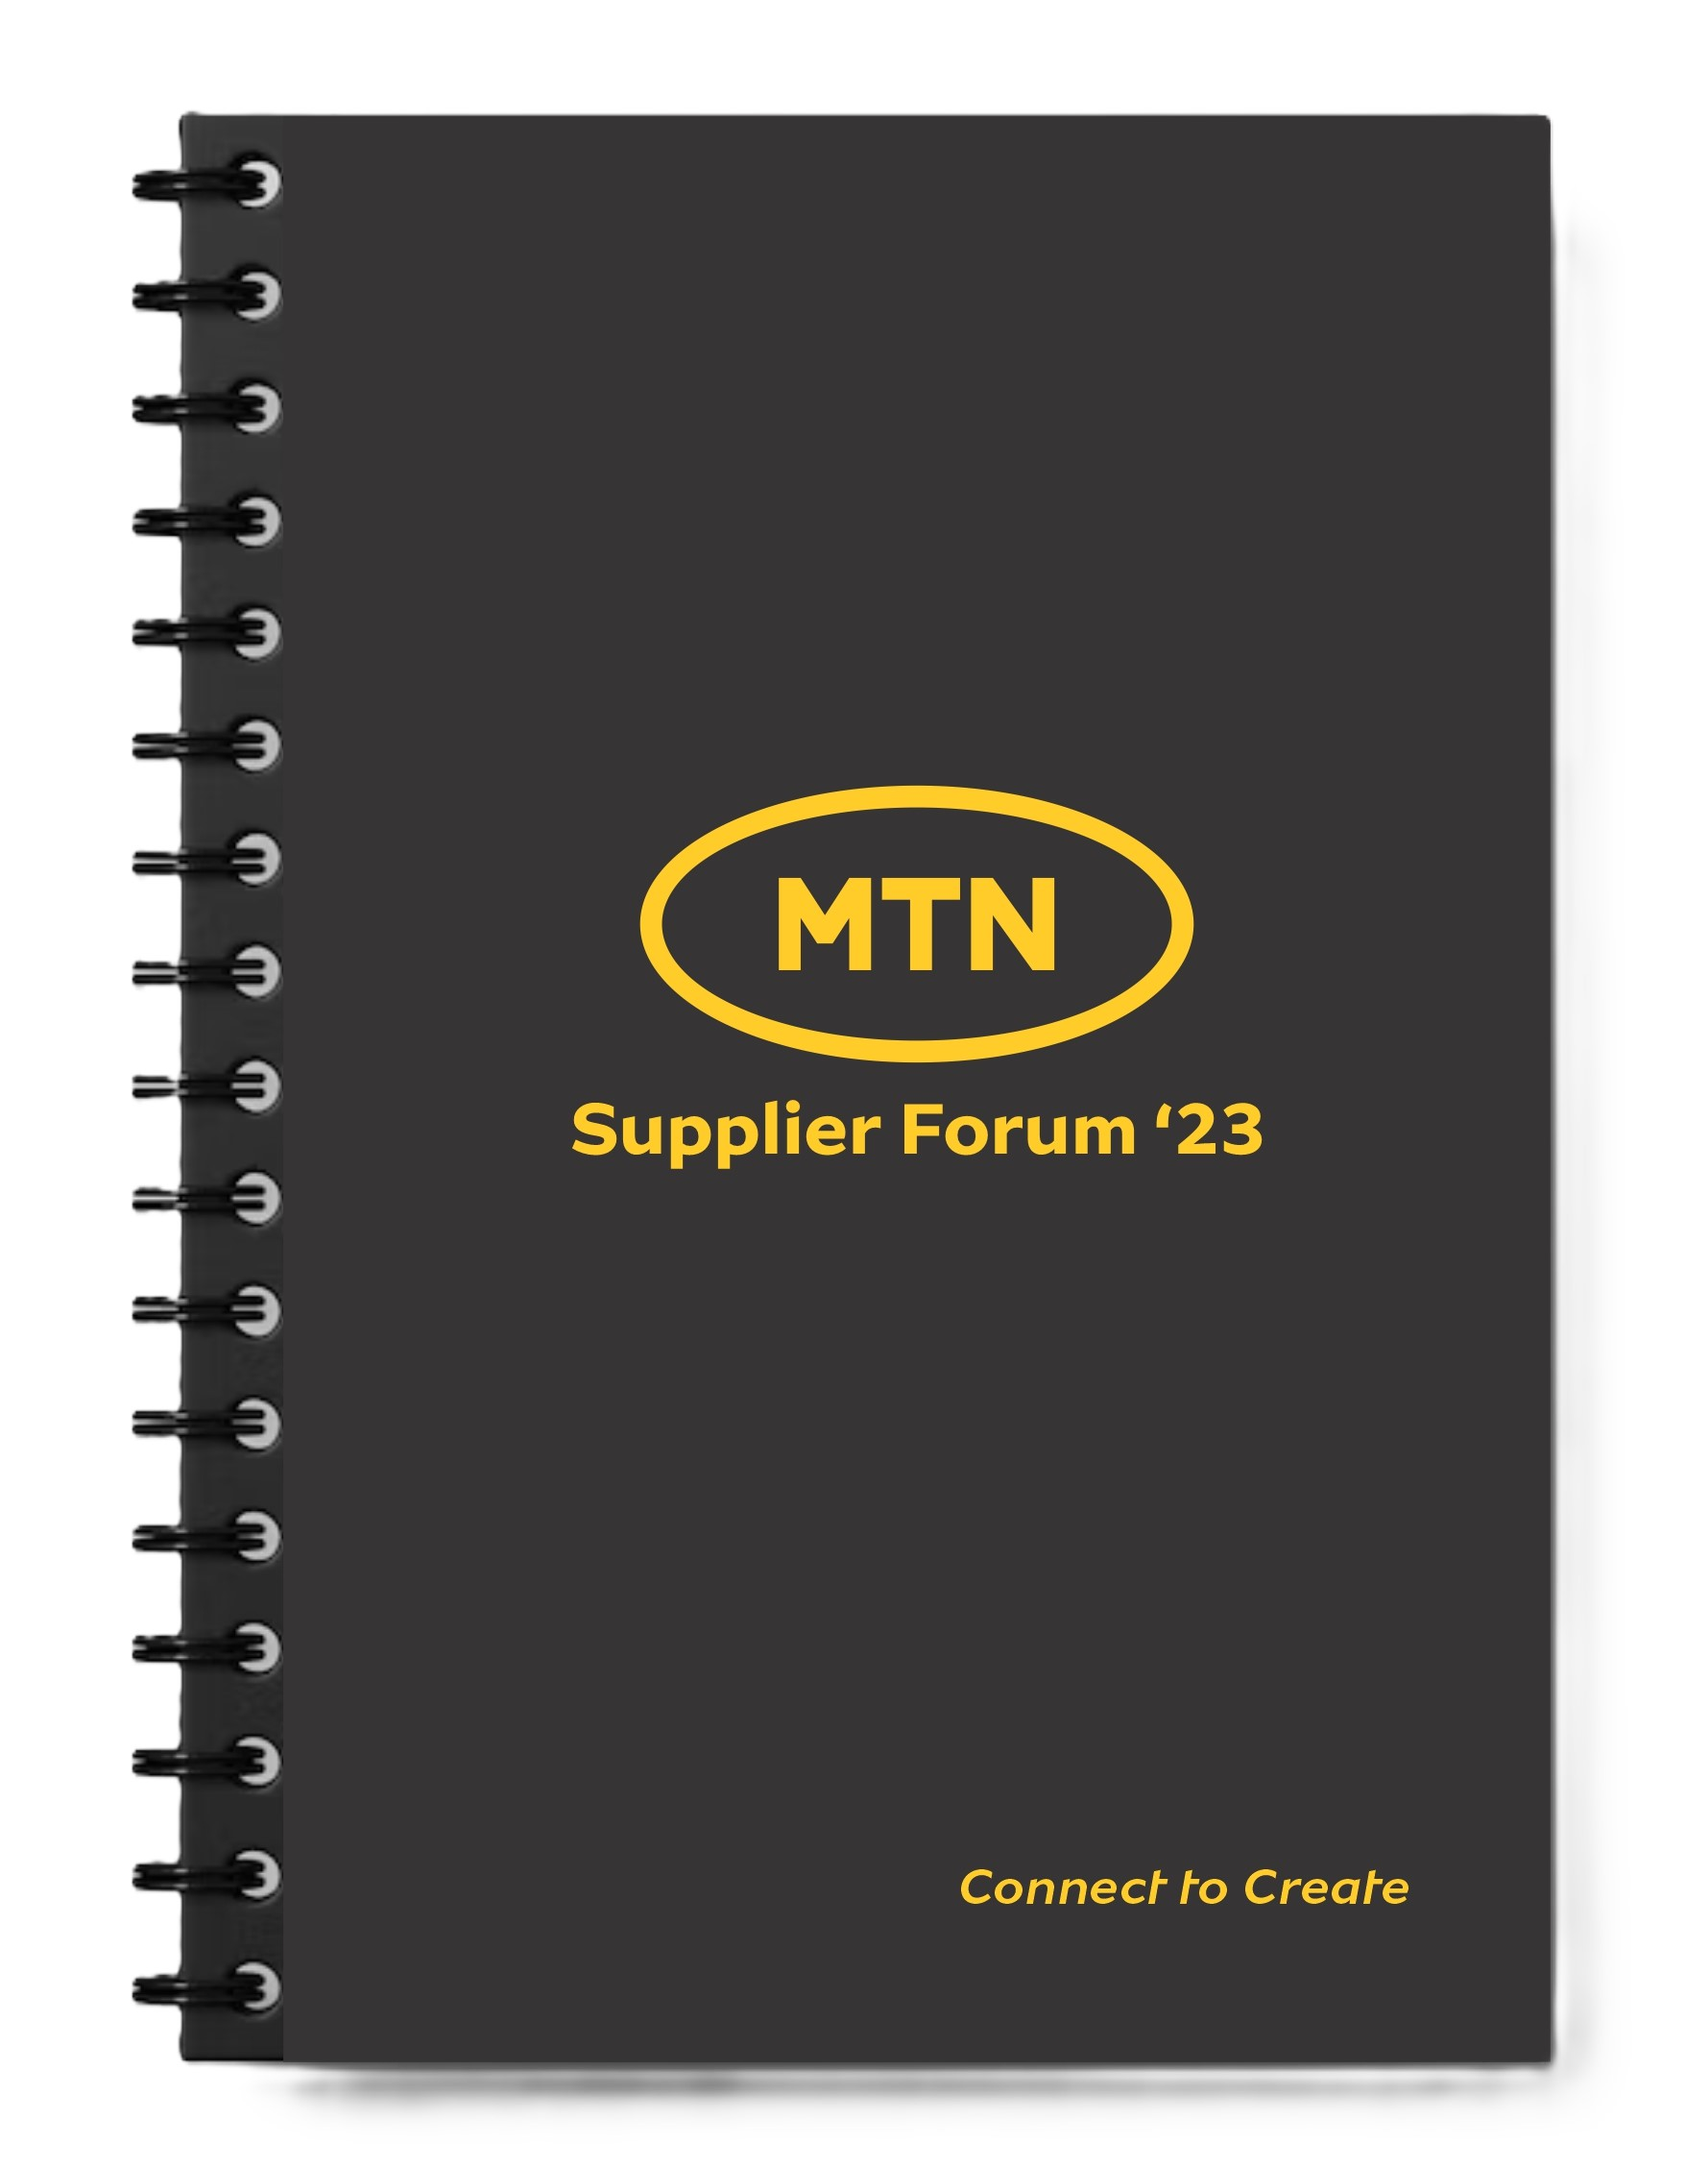
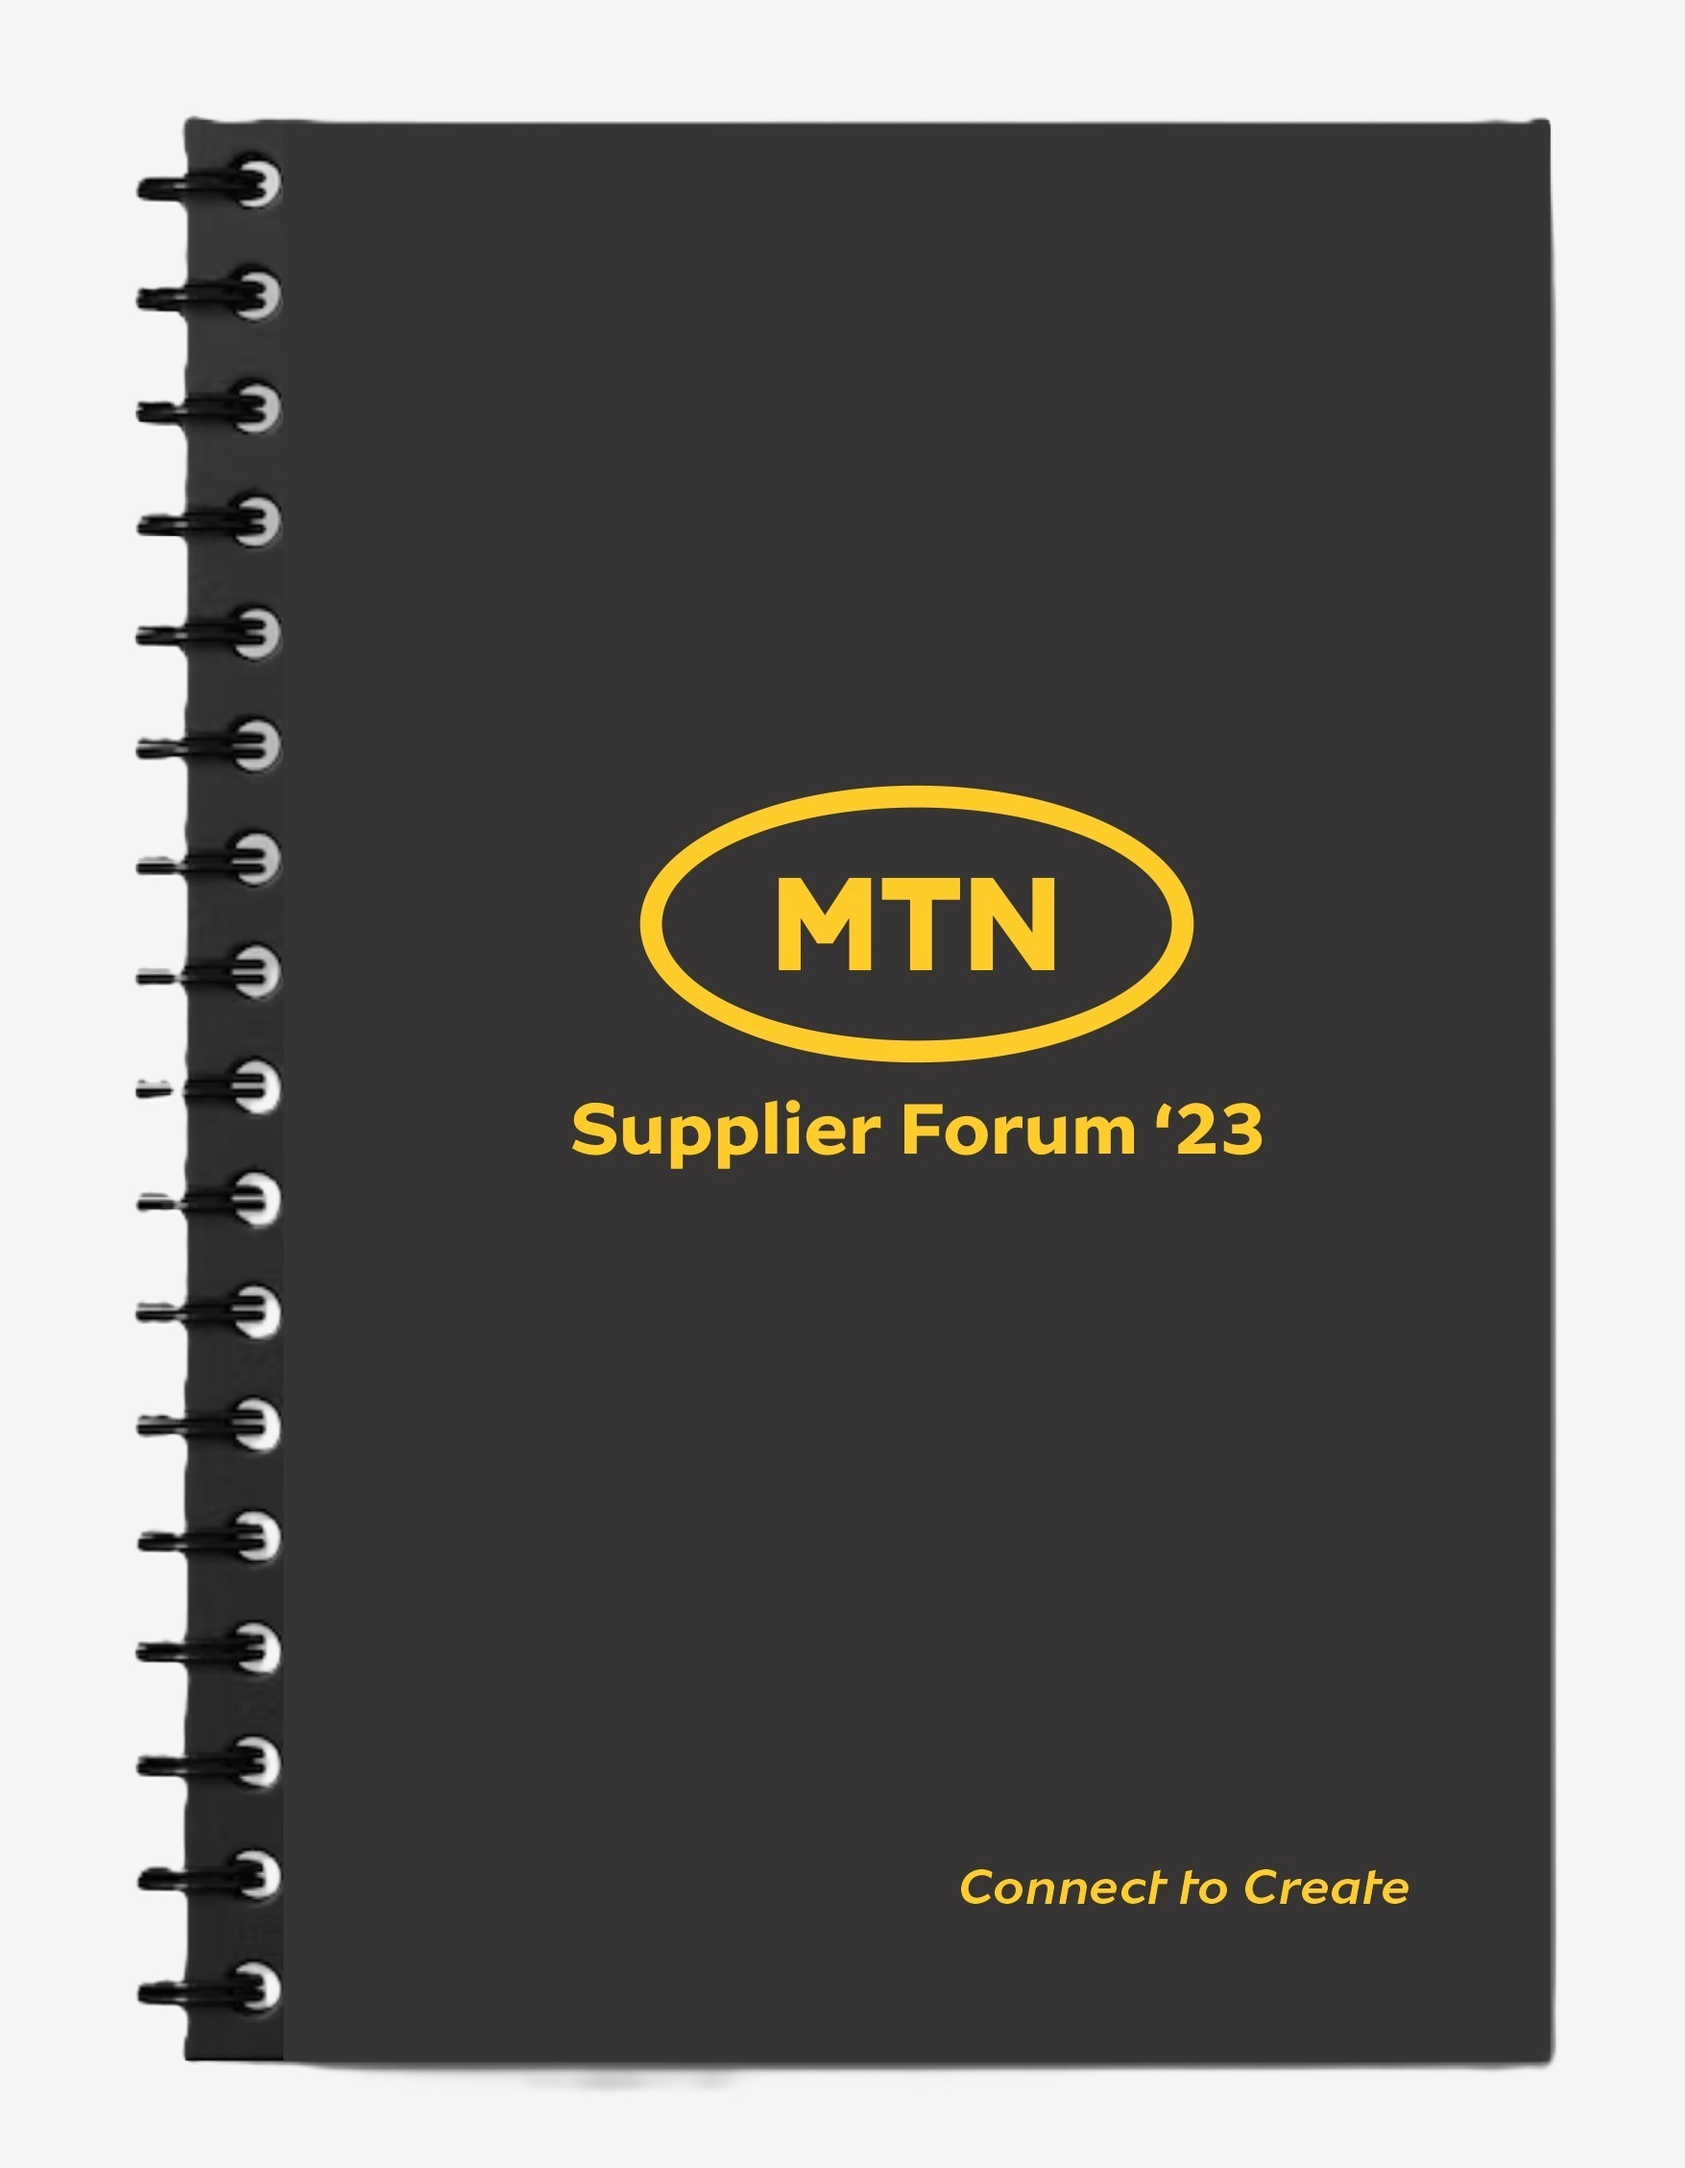
removed some portfolio img backgroung

diff --git a/styles/pages/index.css b/styles/pages/index.css
@@ -58,7 +58,6 @@
   }
 }
 
-
 /* ----- HERO ----- */
 .home--hero--sec {
   /* background-image: url(../background-images/hands-reaching-pot.png); */
@@ -96,41 +95,44 @@
   color: transparent;
 }
 @keyframes arrow {
-  0%, 100% {
+  0% {
     transform: translateY(-10px);
   }
   20% {
-    transform: translateY(-8px);
-  }
-  40% {
     transform: translateY(-6px);
   }
+  40% {
+    transform: translateY(-2px);
+  }
   60% {
-    transform: translateY(-4px);
+    transform: translateY(2px);
   }
   80% {
-    transform: translateY(-2px);
+    transform: translateY(6px);
+  }
+  100% {
+    transform: translateY(10px);
   }
 }
 .home--hero--btn {
+  display: flex;
+  justify-content: center;
+  align-items: center;
   margin: 40px 0 96px;
-  padding: 10px 40px 10px 50px;
+  padding: 10px 25px;
   background-color: var(--main-color);
   font-size: 16px;
   color: white;
   border: none;
   cursor: pointer;
-  box-shadow: -5px -5px 0px rgba(112,204, 133, 0);
+  box-shadow: -5px -5px 0px rgba(112, 204, 133, 0);
   position: relative;
 }
-.home--hero--btn::before {
-  content: '⬇';
-  position: absolute;
-  font-size: 20px;
-  left: 30px;
+.home--hero--btn .arrow-down {
+  font-size: 16px;
+  left: 20px;
   animation: arrow 1s ease infinite;
 }
-
 .home--hero--btn:hover {
   background: linear-gradient(
     45deg,
@@ -147,7 +149,6 @@
   padding: 3px 20px;
   align-self: center;
 }
-
 
 /* ----- SERVICE ----- */
 .home--service-sec {
@@ -205,7 +206,7 @@
   color: white;
   border: none;
   cursor: pointer;
-  box-shadow: -5px -5px 0px rgba(112,204, 133, 0);
+  box-shadow: -5px -5px 0px rgba(112, 204, 133, 0);
 }
 .home--service-sec button:hover {
   background: linear-gradient(
@@ -248,8 +249,7 @@
   height: 350px;
   position: relative;
 }
- .gallery {
-  background-color: white;
+.gallery {
   display: flex;
   height: 100%;
   gap: 10px;
@@ -258,7 +258,7 @@
 .gallery::-webkit-scrollbar {
   display: none;
 }
-.gallery div{
+.gallery div {
   display: grid;
   grid-template-columns: auto auto auto;
   grid-gap: 20px;
@@ -266,22 +266,22 @@
   width: 100%;
   justify-content: space-around;
   flex: none;
- }
- .gallery div span {
+}
+.gallery div span {
   width: 100%;
- }
- .gallery div img {
+}
+.gallery div img {
   filter: grayscale(20%);
   width: 100%;
   height: 320px;
   object-fit: contain;
   transition: transform 0.5s;
   cursor: pointer;
- }
- .gallery div img:hover {
+}
+.gallery div img:hover {
   filter: grayscale(0);
   transform: scale(1.1);
- }
+}
 .h--s--p-img-prev,
 .h--s--p-img-next {
   background-color: rgba(0, 0, 0, 0.3);
@@ -323,10 +323,14 @@
   text-align: center;
 }
 .home--about-sec h1::after {
-  content: '';
+  content: "";
   flex: 1;
   padding: 3.5px 10px;
-  background: linear-gradient(45deg, var(--secondary-color)15%, var(--main-color)65%);
+  background: linear-gradient(
+    45deg,
+    var(--secondary-color) 15%,
+    var(--main-color) 65%
+  );
   align-items: center;
 }
 .home--about--flx-con {
@@ -399,12 +403,12 @@
   .home--about-sec h1 {
     font-size: 2.5em;
   }
-  .gallery div{
+  .gallery div {
     grid-template-columns: auto auto;
-   }
-  .gallery div .img3{
+  }
+  .gallery div .img3 {
     display: none;
-   }
+  }
 }
 @media (max-width: 704px) {
   .home--hero--text-div h1 {
@@ -425,10 +429,14 @@
     text-align: center;
   }
   .home--about-sec h1::before {
-    content: '';
+    content: "";
     flex: 1;
     padding: 3.5px 10px;
-    background: linear-gradient(45deg, var(--main-color)15%, var(--secondary-color)65%);
+    background: linear-gradient(
+      45deg,
+      var(--main-color) 15%,
+      var(--secondary-color) 65%
+    );
     align-items: center;
   }
 }
@@ -437,12 +445,12 @@
   .home--about-sec h1:after {
     display: none;
   }
-  .gallery div{
+  .gallery div {
     grid-template-columns: auto;
-   }
+  }
   .gallery div .img2 {
     display: none;
-   }
+  }
 }
 @media (max-width: 450px) {
   .home--hero--text-div h1 {
@@ -451,7 +459,7 @@
   .hero-header {
     font-weight: 900;
   }
-  .home--about-sec h1{
+  .home--about-sec h1 {
     display: flex;
     justify-content: center;
   }

diff --git a/styles/pages/service.css b/styles/pages/service.css
@@ -52,9 +52,7 @@
   margin-bottom: -150px;
 }
 .service--portfolio-sec {
-  /* background-color: whitesmoke; */
-  background-color: white;
-  box-shadow: inset 0px 0px 50px rgba(255, 0, 0, 0.3);
+  background-color: whitesmoke;
 }
 .service--portfolio-sec h1 {
   margin-bottom: 30px;
@@ -108,7 +106,6 @@
   font-size: 25px;
 }
 .service--portfolio-img-con {
-  background-color: white;
   display: flex;
   justify-content: center;
   flex-wrap: wrap;

diff --git a/index.html b/index.html
@@ -111,6 +111,7 @@
         <h1 class="hero-header js-hero-header">WE DESIGN &amp; WE PRINT</h1>
         <a href="#service">
           <button class="home--hero--btn">
+            <i class='bx bxs-down-arrow-alt arrow-down'></i>
             READ MORE
           </button>
         </a>

diff --git a/scripts/service.js b/scripts/service.js
@@ -13,7 +13,6 @@ projects.forEach(project => {
       </div>
     `;
   });
-  console.log(...projectImages);
   projectHTML += `
     <div class="service--portfolio-con">
         <div class="service--portfolio-title-con">
